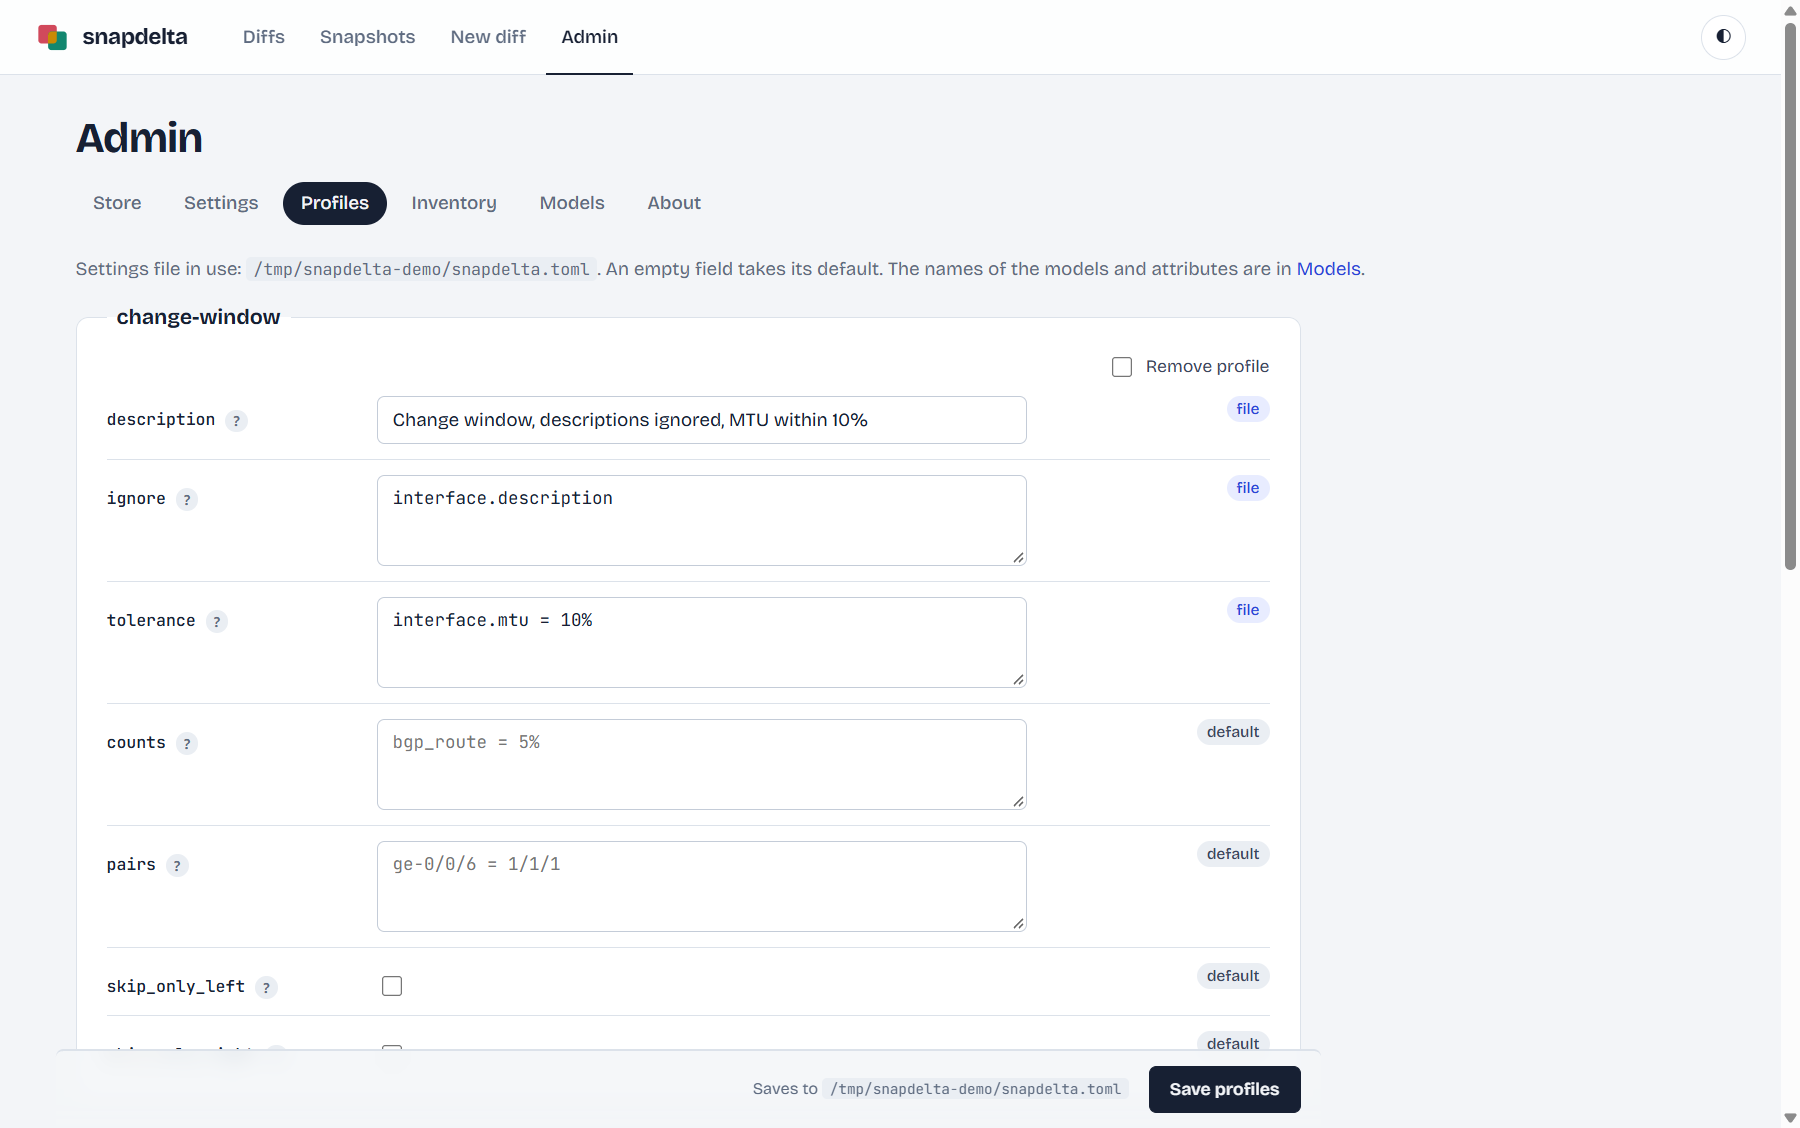
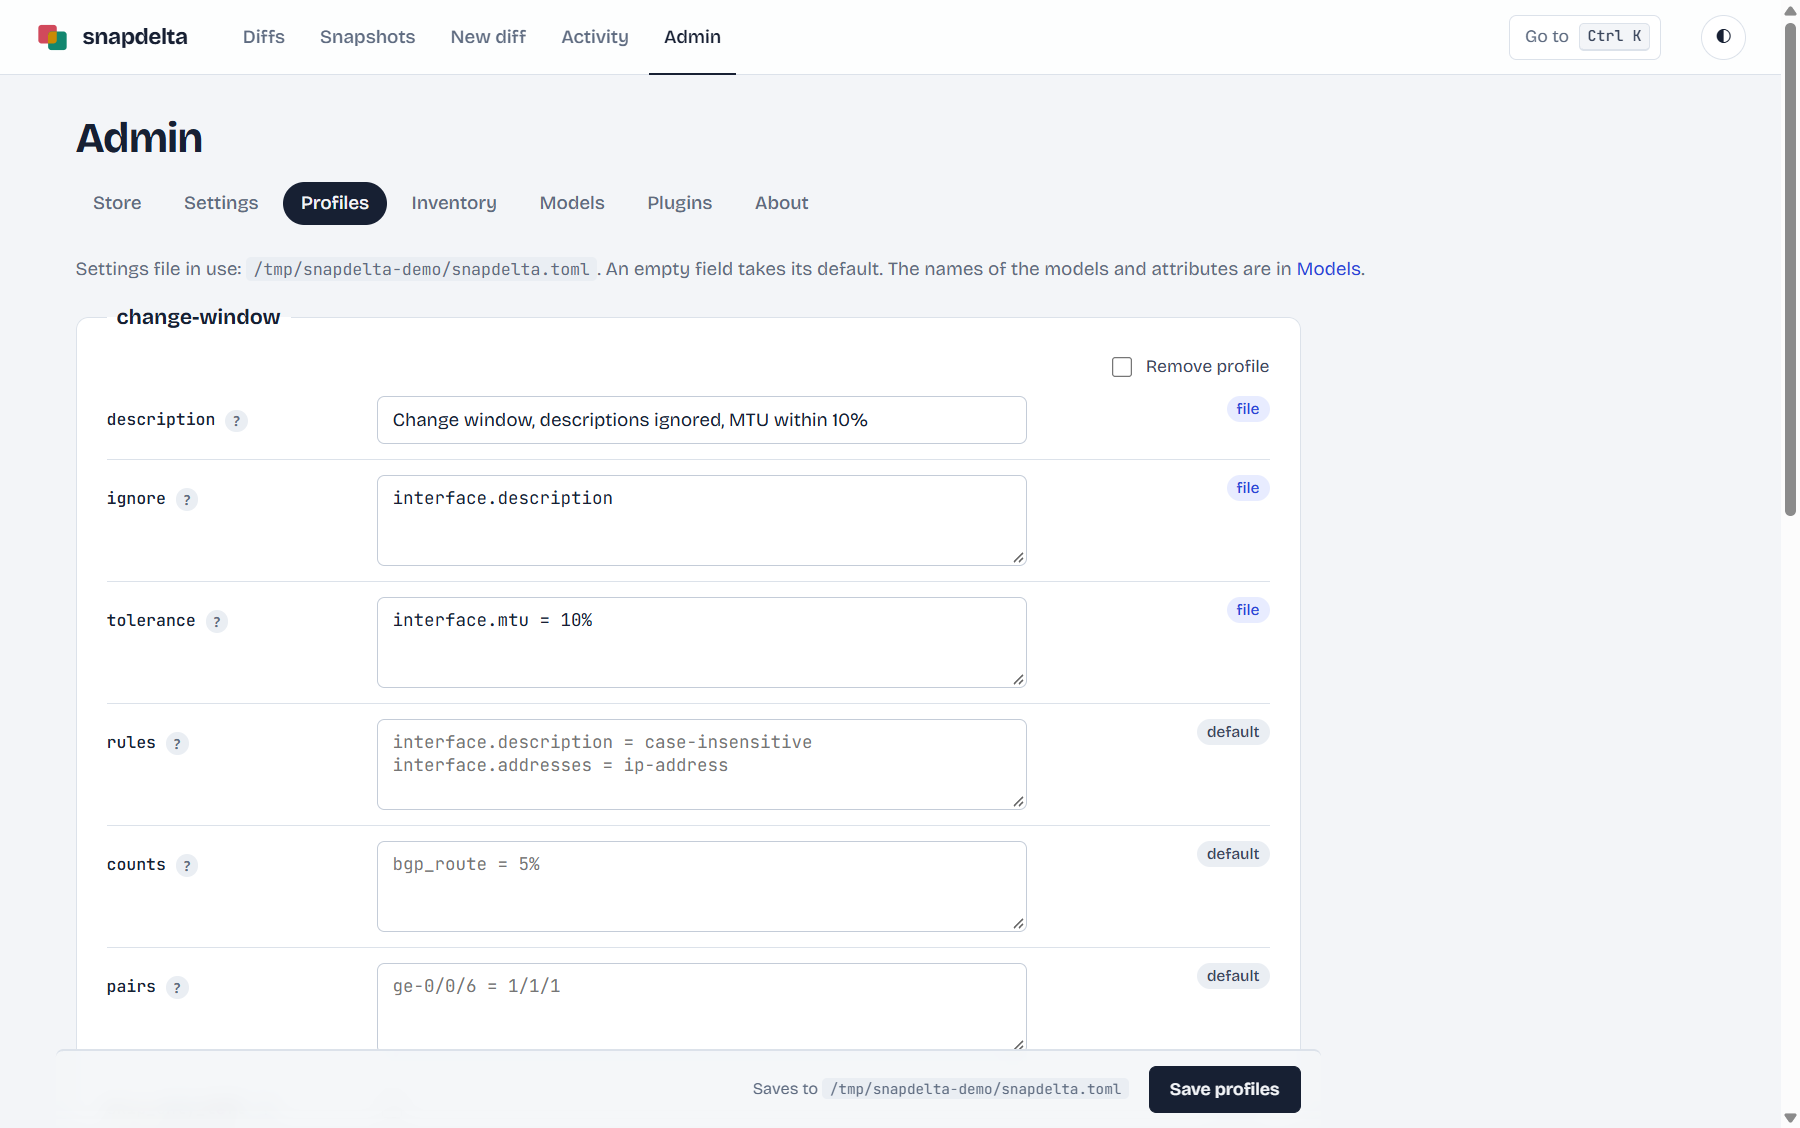
docs: retake the web ui screenshots and add the target page

diff --git a/docs/web-ui.md b/docs/web-ui.md
@@ -31,6 +31,8 @@ Every saved diff, newest first, with its title, its two sides and a delta strip;
 
 ## The snapshots of a target
 
+![The page of r1: the timeline of its snapshots for one period, then the table](images/screenshots/target.png)
+
 The page of a target starts with its **timeline**: the 40 newest snapshots as dots on one line, oldest on the left, each with its time (a link to the snapshot) and its label. Between two dots, a capsule shows the delta from one snapshot to the next, in red (removed), green (added) and amber (changed), with its count; its height grows with the square root of the count, so a small change stays visible. A profile hides the changes that it accepts. Click a capsule to select its two snapshots, or click any two dots: the older one becomes the left side (red), the newer one the right side (green), then **Compare** opens the diff. When the timeline holds more snapshots than the page shows, the edge on that side fades: scroll to see them. The table under the timeline lists every snapshot. **From** and **To**, in UTC, keep the snapshots of one period, in the timeline and in the table. Tick rows of the table, or of the list of diffs, and a bar at the bottom of the screen gives their count, **Clear** and **Delete**; a delete keeps the period.
 
 ## Take snapshots
@@ -45,7 +47,7 @@ The metadata of the load (time, models, inputs, warnings), then one table per mo
 
 ## A new diff
 
-![The new diff form: target and snapshot of each side, models, title, profile](images/screenshots/new-diff.png)
+![The new diff form, One target: a target and a snapshot for Before and After, the models, then title, description and profile](images/screenshots/new-diff.png)
 
 A switch at the top gives **One target** (the default) or **Many targets**.
 

diff --git a/docs/roadmap.md b/docs/roadmap.md
@@ -6,4 +6,3 @@ The work planned for the next versions of snapdelta. Effort: **S** less than one
 |---|---|---|---|
 | 1 | **A queue runner and its workers, as a plugin package.** The core needs no change: the runners are a plugin group, a task is data (`LoadTask`), and `snapdelta.runners.execute()` runs it in any process. A package `snapdelta-queue` gives a runner with a job table in the PostgreSQL store (`SELECT ... FOR UPDATE SKIP LOCKED`, no broker) and its own command `snapdelta-worker`, so that the loads run where the devices are reachable and outlive the web server. Scheduled snapshots need no code: a cron job or a systemd timer runs `snapdelta snapshot --group core --label nightly`; the docs give an example. Build it when a deployment needs it. | L | Later, plugin |
 | 2 | **Ready-made plugins**, so a first snapshot needs no code. Separate packages give the models and the source: `snapdelta-napalm` (many vendors through the NAPALM getters, with the same models for each vendor, so a migration compare works at once), then `snapdelta-openconfig` (gNMI or NETCONF with the OpenConfig models), `snapdelta-netbox` (an inventory format) and auth backends for LDAP and OIDC. Each package has its own dependencies, releases and tests, starts from `snapdelta plugins new`, and passes the contract tests. Start with `snapdelta-napalm`. | L | Later |
-| 3 | **New screenshots** of the web UI for the docs: Admin > Plugins, New diff (One target and Many targets), Take snapshot, the page of a target with a period, a diff with its expected changes. | S | Later |

diff --git a/CHANGELOG.md b/CHANGELOG.md
@@ -42,6 +42,7 @@
 - **Diffs** and the page of a target show a bar fixed at the bottom of the screen when rows are ticked, with their count, **Clear** and **Delete**, in place of a button under the list; a delete on the page of a target keeps its period.
 - **Admin > Settings** has links to its sections, and a menu for a field with known values: `log_level`, and the installed runners, auth backends and inventory formats.
 - **Activity** filters the runs by result and by period, and its rows are shorter.
+- The screenshots of the docs show the web UI of this version, with one more for the page of a target.
 
 ### Fixed
 
